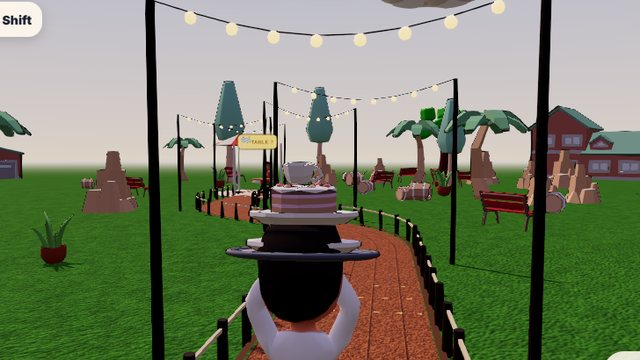
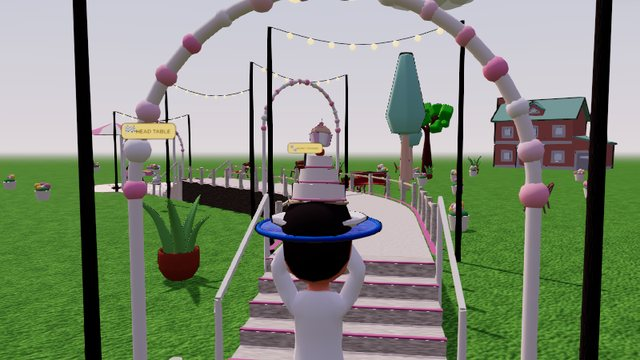
Tray: side-on delivery camera, new tile art (wedding steps), hub copy EN/ES for 18 courses
Claude-Session: https://claude.ai/code/session_01FpsyMnPeC4bXvsibQmkif7

diff --git a/index.html b/index.html
@@ -407,7 +407,7 @@ const GAMES = [
   { id: 'tide', kind: '3D · 4V4 TEAM PAINT', name: 'Tide Lines', desc: 'Water-cannon paint battles on three arenas: a sunny pier, a rooftop garden and an island market. Cover the most floor, or hold the three tide pools. Bots or up to 8 phones.', meta: ['1–8 players', '2.5 min', 'Ages 8+'] , href: 'games/tidelines.html', st: 'PLAY', live: true, thumb: 'thumbs/tidelines.jpg' },
   { id: 'drift', kind: '3D · KART RACER', name: 'Island Drift', desc: 'Drift for mini-turbos, grab items and race five rivals on four island tracks, win the Island Cup, or race the ghost of your best lap.', meta: ['Solo vs 5 bots', '3 min'] , href: 'games/drift.html', st: 'PLAY', live: true, thumb: 'thumbs/drift.jpg' },
   { id: 'fit', kind: 'COZY · ASMR', name: 'Perfect Fit', desc: 'A messy drawer, perfectly shaped slots, and a satisfying snap every time something lands. Zen mode for zoning out.', meta: ['Solo', '1–2 min'] , href: 'games/fit.html', st: 'PLAY', live: true, thumb: 'thumbs/fit.jpg' },
-  { id: 'tray', kind: 'PARTY · PHYSICS', name: 'Fail Tray', desc: 'Carry a wobbling tower of food through an obstacle course. Falling is the funny part. Take turns with friends.', meta: ['1–4 players', '45 s'] , href: 'games/tray.html', st: 'PLAY', live: true, thumb: 'thumbs/tray.jpg' },
+  { id: 'tray', kind: 'PARTY · PHYSICS', name: 'Fail Tray', desc: 'Carry a wobbly tower of food through 18 silly courses: a garden party, a seaside café, a wedding, a cruise ship and a ski lodge. Falling is the funny part. Take turns with friends.', meta: ['1–4 players', '45 s'] , href: 'games/tray.html', st: 'PLAY', live: true, thumb: 'thumbs/tray.jpg' },
   { id: 'junk', kind: 'COZY · RESTORATION', name: 'Junkyard to Jewel', desc: 'Wash, sand, paint and polish 16 rusty rides and boats with your finger. Add stripes, stars and shiny wheels, fill shop orders and snap photo cards.', meta: ['Solo', '2–4 min'] , href: 'games/junk.html', st: 'PLAY', live: true, thumb: 'thumbs/junk.jpg' },
   { id: 'brew', kind: 'COZY · IDLE CAFE', name: 'Brew and Bloom', desc: 'Grow herbs in real time, even while you are away, brew 16 teas for regulars with little stories, and level your café up to 10: seasonal plants, a piano, a café pup. Nobody ever gets angry.', meta: ['Solo', 'Short check-ins'] , href: 'games/brew.html', st: 'PLAY', live: true, thumb: 'thumbs/brew.jpg' },
   { id: 'trivia', kind: 'PARTY · GAME SHOW', name: 'Pact Trivia', desc: 'A 3D game-show studio with buzzers for up to four players on one device, or play solo against bots. English and Spanish.', meta: ['1–4 players', '5 min'] , href: 'games/trivia.html', st: 'PLAY', live: true, thumb: 'thumbs/trivia.jpg' },
@@ -501,7 +501,7 @@ const ES_GAMES = {
   tide: ['Batallas de pintura con cañones de agua en tres arenas: un muelle soleado, un jardín en la azotea y un mercado isleño. Cubre más suelo o domina las tres pozas de marea. Bots o hasta 8 teléfonos.', ['1–8 jugadores', '2,5 min', '8+ años']],
   drift: ['Derrapa para turbos, usa objetos y compite contra cinco rivales en cuatro pistas, gana la Copa Isla o corre contra el fantasma de tu mejor vuelta.', ['Solo vs 5 bots', '3 min']],
   fit: ['Un cajón desordenado, huecos perfectos y un clic satisfactorio cada vez que algo encaja. Modo Zen para relajarte.', ['Solo', '1–2 min']],
-  tray: ['Lleva una torre tambaleante de comida por una pista de obstáculos. Caerse es lo divertido. Turnos con amigos.', ['1–4 jugadores', '45 s']],
+  tray: ['Lleva una torre tambaleante de comida por 18 pistas locas: una fiesta en el jardín, un café del puerto, una boda, un crucero y un refugio de esquí. Caerse es lo divertido. Turnos con amigos.', ['1–4 jugadores', '45 s']],
   junk: ['Lava, lija, pinta y pule 16 coches y barcos oxidados con el dedo. Añade rayas, estrellas y ruedas brillantes, cumple pedidos y saca tarjetas con foto.', ['Solo', '2–4 min']],
   brew: ['Cultiva hierbas en tiempo real, incluso cuando no estás, prepara 16 tés para clientes con pequeñas historias y sube tu café hasta el nivel 10: plantas de temporada, un pianito y un perrito. Aquí nadie se enoja.', ['Solo', 'Visitas cortas']],
   trivia: ['Un plató de concurso en 3D con pulsadores para hasta cuatro jugadores en un dispositivo, o juega contra bots. Inglés y español.', ['1–4 jugadores', '5 min']],

diff --git a/games/tray.html b/games/tray.html
@@ -349,7 +349,7 @@ function buildCourse(L) {
   const cloth = stripeOf(CLOTH[L.v] || CLOTH.garden);
   const table = new THREE.Group(); const top = new THREE.Mesh(new THREE.CylinderGeometry(.75, .75, .06, 32), E.pbr('wood', 0xe6c89a, [1, 1])); top.position.y = .9; table.add(top); const clothM = new THREE.Mesh(new THREE.CylinderGeometry(.78, .82, .2, 32, 1, true), new THREE.MeshStandardMaterial({ map: cloth, side: THREE.DoubleSide, roughness: .9 })); clothM.position.y = .8; table.add(clothM); const leg = new THREE.Mesh(new THREE.CylinderGeometry(.06, .3, .9, 12), E.pbr('metal', 0x2b2f38, [1, 1])); leg.position.y = .45; table.add(leg); const pole = new THREE.Mesh(new THREE.CylinderGeometry(.04, .04, 3.4, 8), E.mat(0xf4f1e8)); pole.position.set(1.5, 1.7, -.4); table.add(pole); const pb = new THREE.Mesh(new THREE.CylinderGeometry(.25, .3, .12, 16), E.pbr('metal', 0x2b2f38, [1, 1])); pb.position.set(1.5, .06, -.4); table.add(pb); const umb = new THREE.Mesh(new THREE.ConeGeometry(1.7, .7, 12, 1, true), new THREE.MeshStandardMaterial({ map: cloth, side: THREE.DoubleSide, roughness: .8 })); umb.position.set(1.5, 3.45, -.4); table.add(umb);
   const vase = new THREE.Mesh(new THREE.CylinderGeometry(.05, .04, .16, 10), E.mat(0x9fe3cf, { roughness: .2 })); vase.position.set(.45, 1.01, .2); table.add(vase); const bloom = new THREE.Mesh(new THREE.SphereGeometry(.07, 10, 8), E.mat(L.v === 'ski' ? 0xe2443a : 0xff9fc4)); bloom.position.set(.45, 1.12, .2); table.add(bloom);
-  table.traverse(m => { if (m.isMesh) { m.castShadow = true; m.receiveShadow = true; } }); table.position.set(fe.x, fe.y, fe.z); course.add(table); C.table = table; C.tableTop = new THREE.Vector3(fe.x, fe.y + .93, fe.z);
+  table.traverse(m => { if (m.isMesh) { m.castShadow = true; m.receiveShadow = true; } }); table.position.set(fe.x, fe.y, fe.z); table.rotation.y = fe.h; course.add(table); /* umbrella on the far-left side, away from the delivery camera */ C.table = table; C.tableTop = new THREE.Vector3(fe.x, fe.y + .93, fe.z);
   const chair = new THREE.Group(); const seat = new THREE.Mesh(new THREE.BoxGeometry(.5, .06, .5), E.pbr('wood', 0x8a5a36, [1, 1])); seat.position.y = .5; chair.add(seat); const back = new THREE.Mesh(new THREE.BoxGeometry(.5, .6, .06), E.pbr('wood', 0x8a5a36, [1, 1])); back.position.set(0, .8, -.25); chair.add(back); for (const [lx, lz] of [[-.2, -.2], [.2, -.2], [-.2, .2], [.2, .2]]) { const l = new THREE.Mesh(new THREE.BoxGeometry(.05, .5, .05), E.mat(0x5a3a22)); l.position.set(lx, .25, lz); chair.add(l); } chair.traverse(m => { if (m.isMesh) m.castShadow = true; });
   const cp = new THREE.Vector3(fe.x + Math.sin(fe.h) * 1.15, fe.y, fe.z + Math.cos(fe.h) * 1.15); chair.position.copy(cp); chair.rotation.y = fe.h + Math.PI; course.add(chair); C.chairPos = cp; C.chairH = fe.h + Math.PI;
   // finish arch
@@ -950,7 +950,7 @@ function updateCamera(dt) {
   const p = latPos(G.s, G.lat * .5); const fwd = new THREE.Vector3(Math.sin(f.h), 0, Math.cos(f.h)), right = new THREE.Vector3(-Math.cos(f.h), 0, Math.sin(f.h));
   let want = new THREE.Vector3(p.x, y + up, p.z).addScaledVector(fwd, -back).addScaledVector(right, side);
   let look = new THREE.Vector3(p.x, y + (portrait ? 2.05 : 2.3), p.z).addScaledVector(fwd, 1.0);
-  if (G.mode === 'deliver' || G.mode === 'done') { const rp = G.rn.g.position; want = C.tableTop.clone().addScaledVector(fwd, -1.2).addScaledVector(right, -3.4).add(new THREE.Vector3(0, 1.25, 0)); look = C.tableTop.clone().lerp(rp, .35).add(new THREE.Vector3(0, .35, 0)); if (portrait) want.addScaledVector(right, -1.4).y += .6; } // side-on: runner, table and customer all in view
+  if (G.mode === 'deliver' || G.mode === 'done') { const rp = G.rn.g.position; want = C.tableTop.clone().addScaledVector(fwd, -1.3).addScaledVector(right, 3.5).add(new THREE.Vector3(0, 1.55, 0)); look = C.tableTop.clone().lerp(rp, .35).add(new THREE.Vector3(0, .5, 0)); if (portrait) want.addScaledVector(right, 1.5).y += .6; } // side-on: runner, table and customer all in view
   G.camPos.lerp(want, 1 - Math.pow(.008, dt)); G.camLook.lerp(look, 1 - Math.pow(.002, dt));
   G.shake = Math.max(0, G.shake - dt * 1.8); const sh = Math.min(.6, G.shake) * .12 * (E.reducedMotion() ? .3 : 1);
   camera.position.copy(G.camPos).add(new THREE.Vector3(rnd(-sh, sh), rnd(-sh, sh), rnd(-sh, sh))); camera.lookAt(G.camLook);

diff --git a/hub-src/hub.js b/hub-src/hub.js
@@ -9,7 +9,7 @@ const GAMES = [
   { id: 'tide', kind: '3D · 4V4 TEAM PAINT', name: 'Tide Lines', desc: 'Water-cannon paint battles on three arenas: a sunny pier, a rooftop garden and an island market. Cover the most floor, or hold the three tide pools. Bots or up to 8 phones.', meta: ['1–8 players', '2.5 min', 'Ages 8+'], st: 'PHASE 3' },
   { id: 'drift', kind: '3D · KART RACER', name: 'Island Drift', desc: 'Drift for mini-turbos, grab items and race five rivals on four island tracks, win the Island Cup, or race the ghost of your best lap.', meta: ['Solo vs 5 bots', '3 min'], st: 'PHASE 4' },
   { id: 'fit', kind: 'COZY · ASMR', name: 'Perfect Fit', desc: 'A messy drawer, perfectly shaped slots, and a satisfying snap every time something lands. Zen mode for zoning out.', meta: ['Solo', '1–2 min'], st: 'PHASE 1' },
-  { id: 'tray', kind: 'PARTY · PHYSICS', name: 'Fail Tray', desc: 'Carry a wobbling tower of food through an obstacle course. Falling is the funny part. Take turns with friends.', meta: ['1–4 players', '45 s'], st: 'PHASE 2' },
+  { id: 'tray', kind: 'PARTY · PHYSICS', name: 'Fail Tray', desc: 'Carry a wobbly tower of food through 18 silly courses: a garden party, a seaside café, a wedding, a cruise ship and a ski lodge. Falling is the funny part. Take turns with friends.', meta: ['1–4 players', '45 s'], st: 'PHASE 2' },
   { id: 'junk', kind: 'COZY · RESTORATION', name: 'Junkyard to Jewel', desc: 'Wash, sand, paint and polish 16 rusty rides and boats with your finger. Add stripes, stars and shiny wheels, fill shop orders and snap photo cards.', meta: ['Solo', '2–4 min'], st: 'PHASE 2' },
   { id: 'brew', kind: 'COZY · IDLE CAFE', name: 'Brew and Bloom', desc: 'Grow herbs in real time, even while you are away, brew 16 teas for regulars with little stories, and level your café up to 10: seasonal plants, a piano, a café pup. Nobody ever gets angry.', meta: ['Solo', 'Short check-ins'], st: 'SEASONS' },
   { id: 'trivia', kind: 'PARTY · GAME SHOW', name: 'Pact Trivia', desc: 'A 3D game-show studio with buzzers for up to four players on one device, or play solo against bots. English and Spanish.', meta: ['1–4 players', '5 min'], st: 'PHASE 2' },

diff --git a/hub-src/extras.js b/hub-src/extras.js
@@ -24,7 +24,7 @@ const ES_GAMES = {
   tide: ['Batallas de pintura con cañones de agua en tres arenas: un muelle soleado, un jardín en la azotea y un mercado isleño. Cubre más suelo o domina las tres pozas de marea. Bots o hasta 8 teléfonos.', ['1–8 jugadores', '2,5 min', '8+ años']],
   drift: ['Derrapa para turbos, usa objetos y compite contra cinco rivales en cuatro pistas, gana la Copa Isla o corre contra el fantasma de tu mejor vuelta.', ['Solo vs 5 bots', '3 min']],
   fit: ['Un cajón desordenado, huecos perfectos y un clic satisfactorio cada vez que algo encaja. Modo Zen para relajarte.', ['Solo', '1–2 min']],
-  tray: ['Lleva una torre tambaleante de comida por una pista de obstáculos. Caerse es lo divertido. Turnos con amigos.', ['1–4 jugadores', '45 s']],
+  tray: ['Lleva una torre tambaleante de comida por 18 pistas locas: una fiesta en el jardín, un café del puerto, una boda, un crucero y un refugio de esquí. Caerse es lo divertido. Turnos con amigos.', ['1–4 jugadores', '45 s']],
   junk: ['Lava, lija, pinta y pule 16 coches y barcos oxidados con el dedo. Añade rayas, estrellas y ruedas brillantes, cumple pedidos y saca tarjetas con foto.', ['Solo', '2–4 min']],
   brew: ['Cultiva hierbas en tiempo real, incluso cuando no estás, prepara 16 tés para clientes con pequeñas historias y sube tu café hasta el nivel 10: plantas de temporada, un pianito y un perrito. Aquí nadie se enoja.', ['Solo', 'Visitas cortas']],
   trivia: ['Un plató de concurso en 3D con pulsadores para hasta cuatro jugadores en un dispositivo, o juega contra bots. Inglés y español.', ['1–4 jugadores', '5 min']],

diff --git a/test/tray.js b/test/tray.js
@@ -75,6 +75,11 @@ module.exports = async (p, rawShot) => {
     check(tour.filter(t => t.stack > 0).length >= L - 2, 'bot delivers something on (almost) every course');
   }
 
+  // tile art: Aisle Style (wedding cake on the steps) with the HUD hidden
+  if (process.env.TRAY_THUMB) { await clean(); await p.evaluate(() => { window.__GAME.S.diff = 'chill'; window.__GAME.begin({ players: 1, level: 11 }); }); await sim(2.6); const s0 = await p.evaluate(() => window.__GAME.C.segs.find(s => s.t === 'stairs').s0 - 1.4); await sim(20, { auto: true, untilS: s0 });
+    await p.evaluate(() => { for (const q of ['.ig-top', '.ig-pad', '#ftMeter', '#ftStack', '#ftTurn', '.ig-toast', '.ig-float', '.ig-big']) document.querySelectorAll(q).forEach(e => e.style.visibility = 'hidden'); }); await shot('thumb');
+    await p.evaluate(() => { for (const q of ['.ig-top', '.ig-pad', '#ftMeter', '#ftStack', '#ftTurn']) document.querySelectorAll(q).forEach(e => e.style.visibility = ''); }); }
+
   // hot-seat: 2 players on course 5 (beams)
   await clean();
   await p.evaluate(() => { document.querySelector('.ig-title')?.remove(); window.__GAME.begin({ players: 2, level: 4, cup: 'one' }); });
